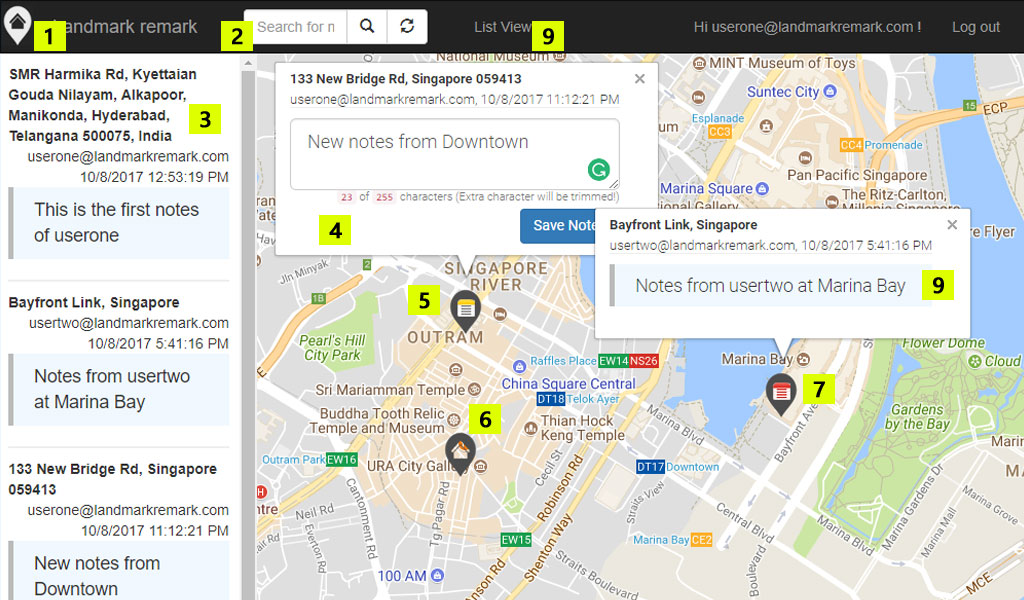
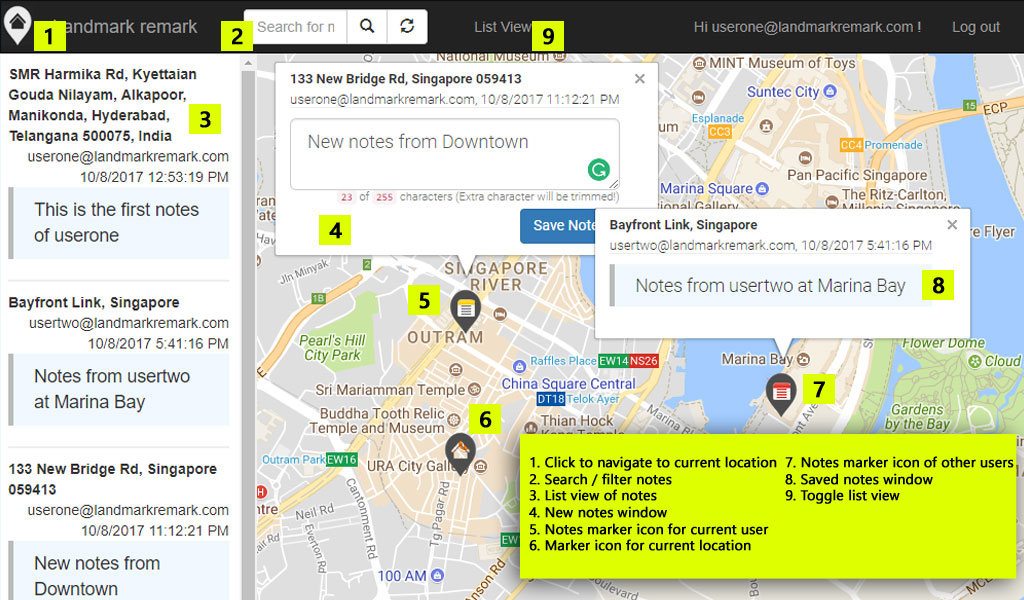
Updated documentation

Changed region(s): [[0.4688, 0.69, 1.0, 0.99], [0.9062, 0.45, 0.9375, 0.48]]

diff --git a/README.md b/README.md
@@ -58,5 +58,7 @@ Coder-First EntityFramework
 - /ClientAPP/config/app-config.ts has the app and api endpoints to be configured manually.
 
 # Screenshots
+![Home](/Screenshots/Home.jpg?raw=true "Home")
+![Register](/Screenshots/Register.jpg?raw=true "Register")
 ![Login](/Screenshots/Login.jpg?raw=true "Login")
 
